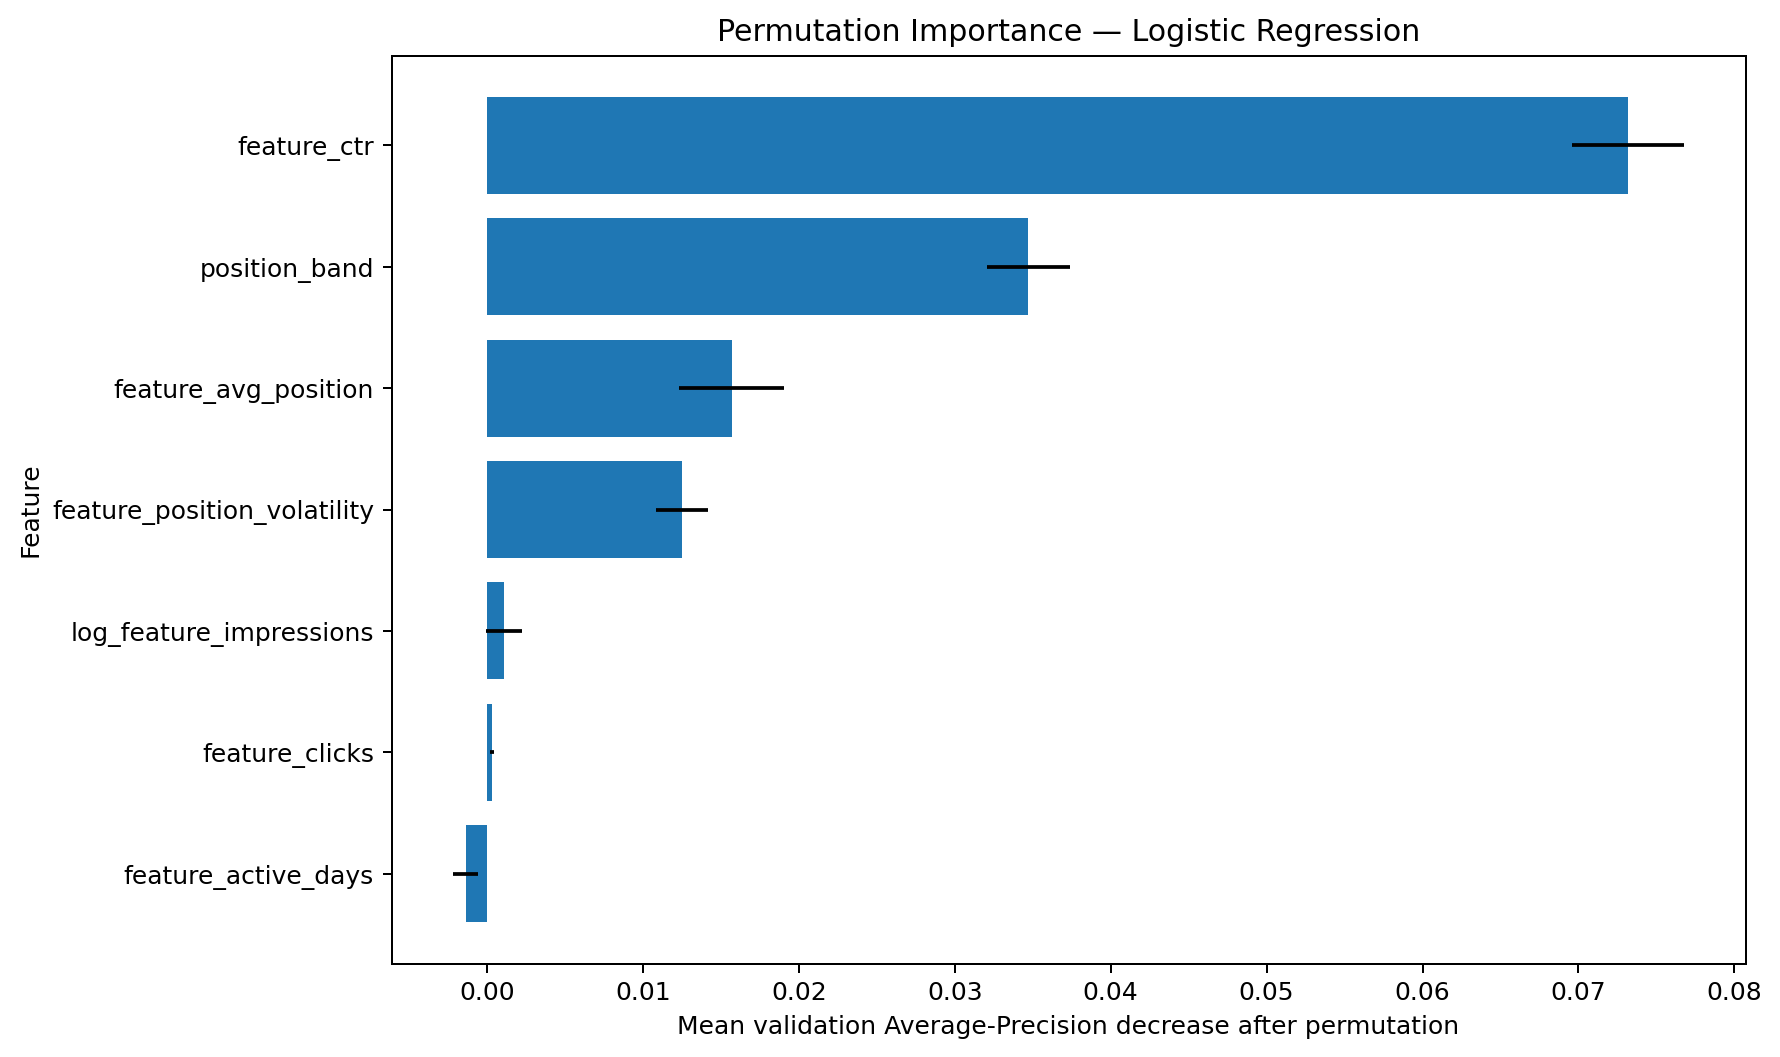
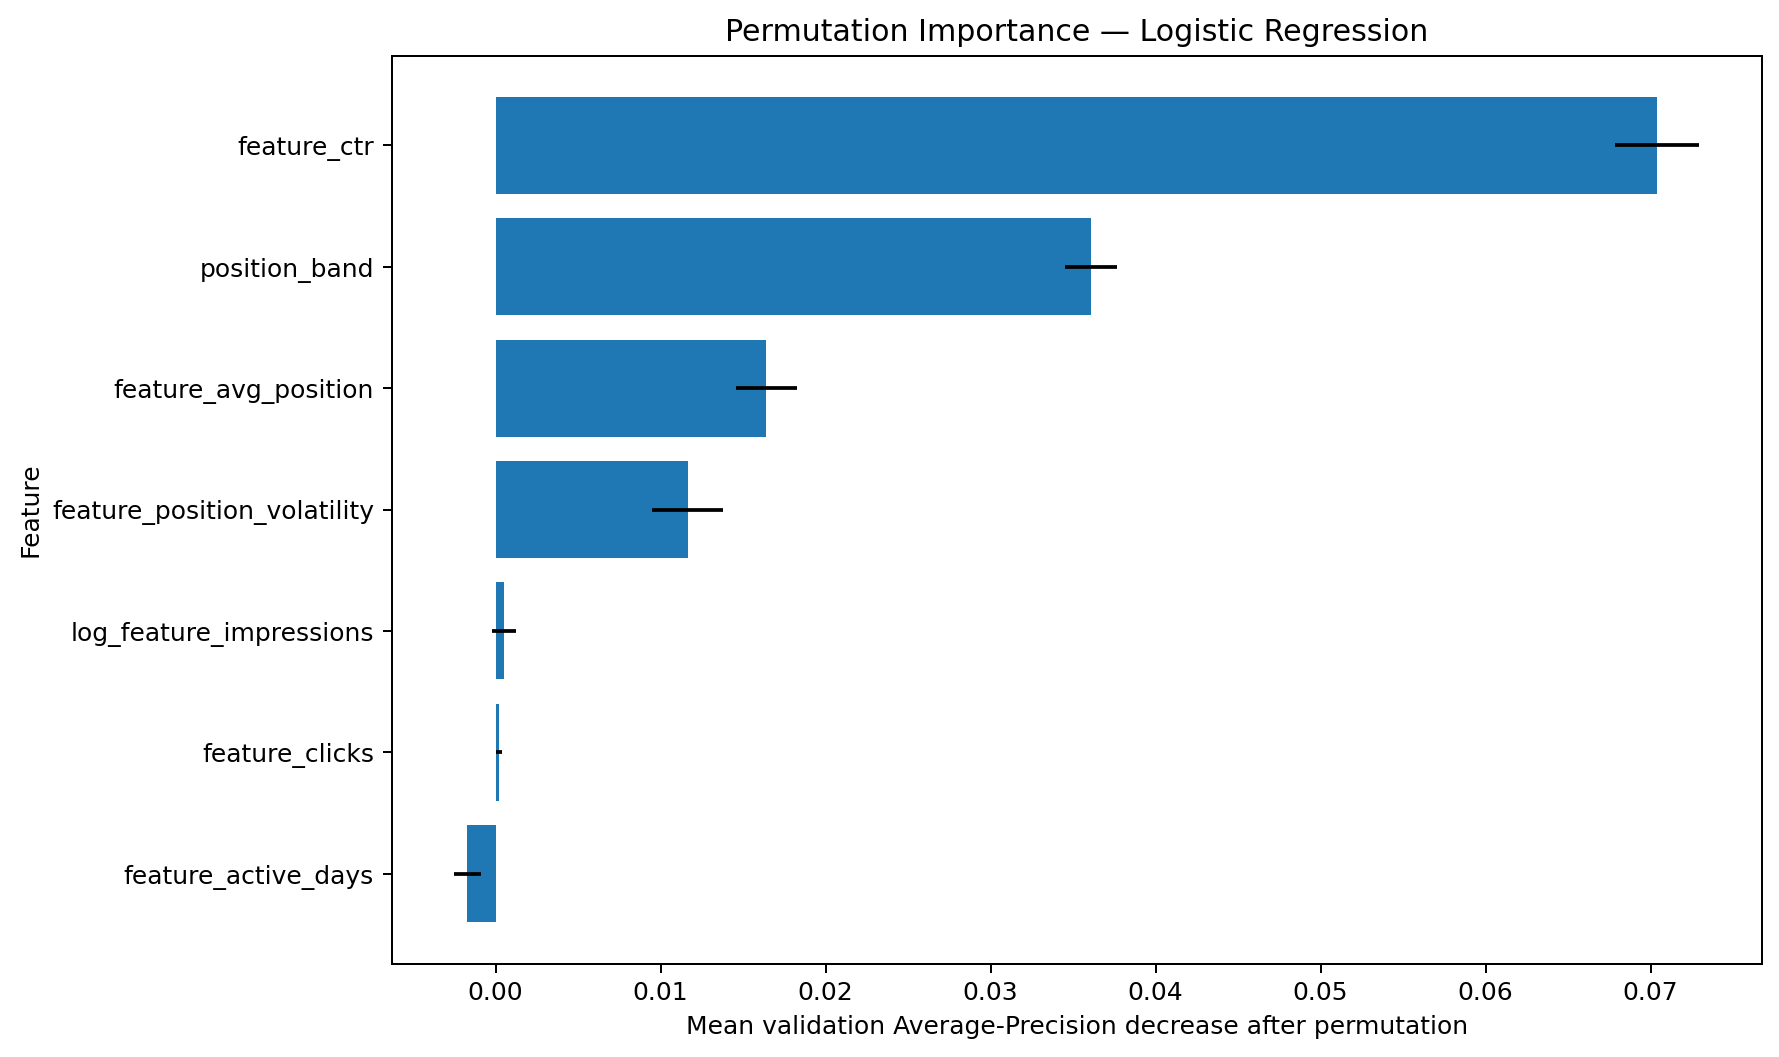
Upgrade ML-11 capstone to technical report version 1.1

diff --git a/docs/index.html b/docs/index.html
@@ -129,12 +129,12 @@
     <tr>
       <td>Before — random row split</td>
       <td>8510</td>
-      <td>29</td>
+      <td>26</td>
       <td>26</td>
       <td>0.3089</td>
-      <td>0.50</td>
-      <td>0.4075</td>
-      <td>0.6317</td>
+      <td>0.54</td>
+      <td>0.4029</td>
+      <td>0.6352</td>
     </tr>
     <tr>
       <td>After — grouped client split</td>
@@ -188,8 +188,8 @@
       <td>0.40</td>
       <td>0.52</td>
       <td>0.2192</td>
-      <td>0.3909</td>
-      <td>0.6211</td>
+      <td>0.3903</td>
+      <td>0.6214</td>
     </tr>
     <tr>
       <td>ML-07 Baseline</td>
@@ -224,44 +224,44 @@
   <tbody>
     <tr>
       <td>feature_ctr</td>
-      <td>0.07317</td>
-      <td>0.00360</td>
+      <td>0.07040</td>
+      <td>0.00256</td>
       <td>True</td>
     </tr>
     <tr>
       <td>position_band</td>
-      <td>0.03472</td>
-      <td>0.00268</td>
+      <td>0.03608</td>
+      <td>0.00157</td>
       <td>True</td>
     </tr>
     <tr>
       <td>feature_avg_position</td>
-      <td>0.01569</td>
-      <td>0.00336</td>
+      <td>0.01640</td>
+      <td>0.00185</td>
       <td>True</td>
     </tr>
     <tr>
       <td>feature_position_volatility</td>
-      <td>0.01250</td>
-      <td>0.00167</td>
+      <td>0.01164</td>
+      <td>0.00215</td>
       <td>True</td>
     </tr>
     <tr>
       <td>log_feature_impressions</td>
-      <td>0.00108</td>
-      <td>0.00117</td>
+      <td>0.00052</td>
+      <td>0.00071</td>
       <td>False</td>
     </tr>
     <tr>
       <td>feature_clicks</td>
-      <td>0.00030</td>
-      <td>0.00014</td>
-      <td>True</td>
+      <td>0.00021</td>
+      <td>0.00016</td>
+      <td>False</td>
     </tr>
     <tr>
       <td>feature_active_days</td>
-      <td>-0.00138</td>
-      <td>0.00080</td>
+      <td>-0.00170</td>
+      <td>0.00083</td>
       <td>False</td>
     </tr>
   </tbody>
